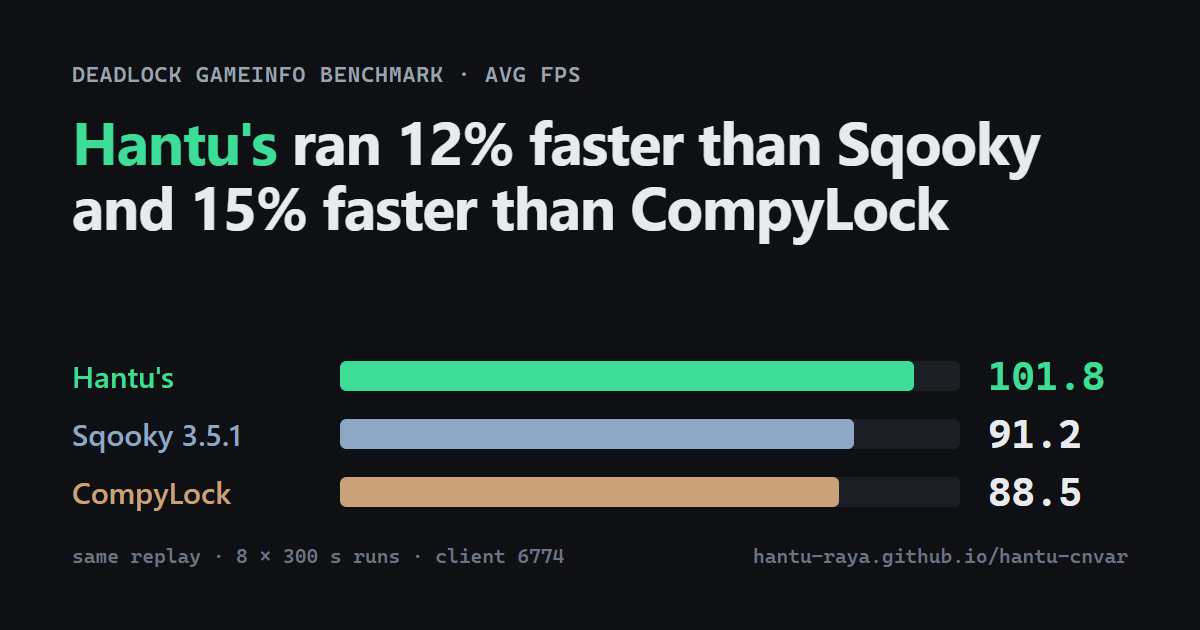
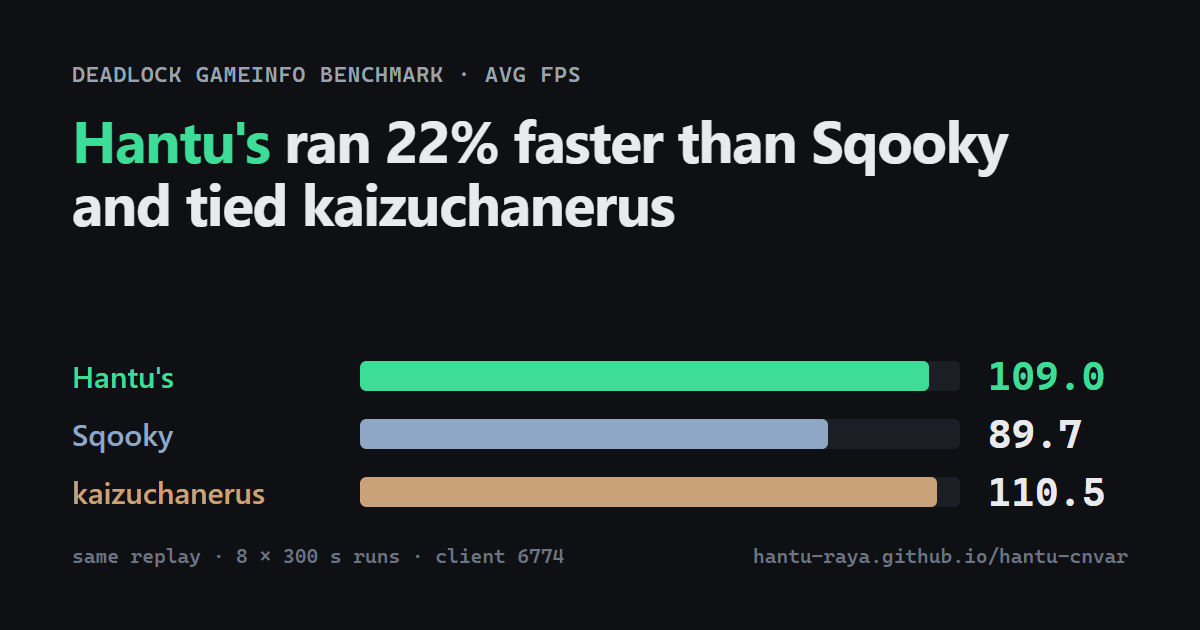
r6 (2026-10-13): Hantu's vs Sqooky f6fdab7 vs kaizuchanerus min spec; drop CompyLock; add findings (Sqooky engine settings -9%, mesh pools +1.7%)

diff --git a/index.html b/index.html
@@ -3,16 +3,16 @@
 <head>
 <meta charset="utf-8">
 <meta name="viewport" content="width=device-width,initial-scale=1">
-<title>Hantu&#x27;s gameinfo vs Sqooky vs CompyLock: Deadlock FPS benchmark</title>
-<meta name="description" content="Hantu&#x27;s averaged 101.8 FPS, 11.7% more than Sqooky 3.5.1 and 15.1% more than CompyLock, on the same recorded match.">
-<meta property="og:title" content="Hantu&#x27;s gameinfo vs Sqooky vs CompyLock: Deadlock FPS benchmark">
-<meta property="og:description" content="Hantu&#x27;s averaged 101.8 FPS, 11.7% more than Sqooky 3.5.1 and 15.1% more than CompyLock, on the same recorded match.">
+<title>Hantu&#x27;s gameinfo vs Sqooky vs kaizuchanerus: Deadlock FPS benchmark</title>
+<meta name="description" content="Hantu&#x27;s ran 22% faster than Sqooky (109.3 vs 89.7 FPS) and tied kaizuchanerus&#x27; minimum spec (108.8 vs 110.5), on the same recorded match.">
+<meta property="og:title" content="Hantu&#x27;s gameinfo vs Sqooky vs kaizuchanerus: Deadlock FPS benchmark">
+<meta property="og:description" content="Hantu&#x27;s ran 22% faster than Sqooky (109.3 vs 89.7 FPS) and tied kaizuchanerus&#x27; minimum spec (108.8 vs 110.5), on the same recorded match.">
 <meta property="og:type" content="article">
 <meta property="og:url" content="https://hantu-raya.github.io/hantu-cnvar/">
 <meta property="og:image" content="https://hantu-raya.github.io/hantu-cnvar/og.png">
 <meta property="og:image:width" content="1200">
 <meta property="og:image:height" content="630">
-<meta property="og:image:alt" content="Average FPS: Hantu&#x27;s 101.8, Sqooky 3.5.1 91.2, CompyLock 88.5. Deadlock gameinfo benchmark, client 6774.">
+<meta property="og:image:alt" content="Average FPS: Hantu&#x27;s 109.0, Sqooky 89.7, kaizuchanerus 110.5. Deadlock gameinfo benchmark, client 6774.">
 <meta name="twitter:card" content="summary_large_image">
 <meta name="twitter:image" content="https://hantu-raya.github.io/hantu-cnvar/og.png">
 <link rel="icon" href="data:,">
@@ -34,7 +34,7 @@ body{margin:0;background:var(--bg);color:var(--fg);font:16px/1.6 var(--sans);-we
 main{max-width:880px;margin:0 auto;padding:56px 24px 80px}
 a{color:var(--link);text-underline-offset:2px}
 a:focus-visible,summary:focus-visible{outline:2px solid var(--link);outline-offset:3px;border-radius:2px}
-code{font:0.88em var(--mono)}
+code{font:0.88em var(--mono);overflow-wrap:anywhere}
 small{color:var(--mut)}
 .eyebrow{font:500 13px/1.4 var(--mono);color:var(--mut);letter-spacing:.02em;margin:0 0 20px}
 h1{font-size:clamp(28px,4.6vw,42px);line-height:1.15;letter-spacing:-.02em;font-weight:650;margin:0 0 18px;max-width:28ch}
@@ -43,6 +43,7 @@ h1 em{font-style:normal;color:var(--a)}
 .update{margin:22px 0 0;padding:12px 18px;max-width:62ch;background:var(--panel);border:1px solid var(--line);border-left:3px solid var(--a);border-radius:0 10px 10px 0;font-size:15px}
 .update b{color:var(--fg)}
 h2{font-size:13px;font-weight:600;letter-spacing:.08em;text-transform:uppercase;color:var(--mut);margin:64px 0 6px}
+h3{font-size:18px;margin:40px 0 6px}
 .sub{margin:0 0 20px;color:var(--mut);max-width:64ch}
 section>p{max-width:68ch}
 
@@ -58,7 +59,9 @@ section>p{max-width:68ch}
 .dot{position:absolute;top:50%;width:12px;height:12px;margin:-6px 0 0 -6px;border-radius:50%;background:currentColor;opacity:.55}
 .mean{position:absolute;top:2px;bottom:2px;width:3px;margin-left:-1.5px;border-radius:2px;background:currentColor}
 .bar{position:absolute;top:6px;bottom:6px;border-radius:4px 0 0 4px;background:currentColor;opacity:.8}
-.pairs .track::after{content:"";position:absolute;right:0;top:-6px;bottom:-6px;border-right:1px dashed var(--faint)}
+.bar.pos{border-radius:0 4px 4px 0}
+.pairs .track::after{content:"";position:absolute;left:var(--zero);top:-6px;bottom:-6px;border-left:1px dashed var(--faint)}
+.axis .track::after{display:none}
 .tick{position:absolute;transform:translateX(-50%);font:12px var(--mono);color:var(--faint)}
 .unit{font:12px var(--mono);color:var(--faint);padding-left:10px}
 .val{font-variant-numeric:tabular-nums;line-height:1.25}
@@ -84,8 +87,7 @@ table{border-collapse:collapse;width:100%;font-size:14px}
 th,td{padding:10px 14px;text-align:left;border-bottom:1px solid var(--line);vertical-align:top}
 tr:last-child>*{border-bottom:0}
 thead th{font-size:12px;font-weight:600;letter-spacing:.04em;text-transform:uppercase;color:var(--mut);white-space:nowrap}
-tbody th{font-weight:600;white-space:nowrap}
-tbody td:first-child{white-space:nowrap}
+tbody th{font-weight:600}
 .num{text-align:right;font:13.5px var(--mono);font-variant-numeric:tabular-nums;white-space:nowrap}
 .flag{color:var(--warn)}
 .sw{display:inline-block;width:9px;height:9px;border-radius:50%;margin-right:8px;background:currentColor;vertical-align:1px}
@@ -111,61 +113,83 @@ footer{margin-top:56px;font-size:13px;color:var(--faint)}
 <body>
 <main>
 <header>
-<p class="eyebrow">Deadlock gameinfo benchmark · client 6774 · 2026-10-12</p>
-<h1><em>Hantu's</em> gameinfo ran 12% faster than Sqooky and 15% faster than CompyLock.</h1>
-<p class="lede">101.8 FPS against 91.2 and 88.5, on the same recorded match with the game restarted for every run.
-All four Hantu's runs beat all four of the others.</p>
-<p class="update"><b>Update:</b> a follow-up found three settings in Hantu's own config that were costing about 8%.
-With them fixed it averaged <b>110.0 FPS</b> on the same replay. <a href="#h-update">See the fix</a></p>
+<p class="eyebrow">Deadlock gameinfo benchmark · client 6774 · 2026-10-13</p>
+<h1><em>Hantu's</em> gameinfo ran 22% faster than Sqooky and tied kaizuchanerus' minimum spec.</h1>
+<p class="lede">Hantu's averaged 109.3 FPS to Sqooky's 89.7, and 108.8 to kaizuchanerus' 110.5, on the same recorded match with the game restarted for every run.
+kaizuchanerus keeps up by drawing less: it hides small objects such as breakables and golden statues and cuts the draw distance.</p>
+<p class="update"><b>New:</b> two settings in Sqooky's config cost it 9%, and a mesh-buffer setting added 1.7% to Hantu's.
+<a href="#h-found">See what was found</a></p>
 </header>
 
 <section aria-labelledby="h-fps">
 <h2 id="h-fps">Average FPS</h2>
-<p class="sub">Each dot is one 300-second run; the solid tick is the average. Higher is better.</p>
-<div class="plot" role="img" aria-label="Average FPS: Hantu's 101.8; Sqooky 3.5.1 91.2; CompyLock 88.5"><div class="row t-a"><div class="name">Hantu&#x27;s</div><div class="track"><span class="range" style="left:68.79%;width:calc(77.81% - 68.79%)"></span><span class="dot" style="left:72.22%" title="101.7 FPS"></span><span class="dot" style="left:72.47%" title="101.7 FPS"></span><span class="dot" style="left:77.81%" title="103.3 FPS"></span><span class="dot" style="left:68.79%" title="100.6 FPS"></span><span class="mean" style="left:72.82%"></span></div><div class="val"><b>101.8</b><small>fastest</small></div></div><div class="row t-b"><div class="name">Sqooky 3.5.1</div><div class="track"><span class="range" style="left:27.91%;width:calc(46.73% - 27.91%)"></span><span class="dot" style="left:46.73%" title="94.0 FPS"></span><span class="dot" style="left:27.91%" title="88.4 FPS"></span><span class="mean" style="left:37.32%"></span></div><div class="val"><b>91.2</b><small>Hantu's +11.7%</small></div></div><div class="row t-c"><div class="name">CompyLock</div><div class="track"><span class="range" style="left:18.08%;width:calc(38.54% - 18.08%)"></span><span class="dot" style="left:18.08%" title="85.4 FPS"></span><span class="dot" style="left:38.54%" title="91.6 FPS"></span><span class="mean" style="left:28.31%"></span></div><div class="val"><b>88.5</b><small>Hantu's +15.1%</small></div></div><div class="row axis" aria-hidden="true"><div></div><div class="track"><span class="tick" style="left:0.00%">80</span><span class="tick" style="left:16.67%">85</span><span class="tick" style="left:33.33%">90</span><span class="tick" style="left:50.00%">95</span><span class="tick" style="left:66.67%">100</span><span class="tick" style="left:83.33%">105</span><span class="tick" style="left:100.00%">110</span></div><div class="unit">FPS</div></div></div>
+<p class="sub">Each dot is one 300-second run; the solid tick is the average. Higher is better. Hantu's has four runs, two from each set.</p>
+<div class="plot" role="img" aria-label="Average FPS: Hantu's 109.0; Sqooky 89.7; kaizuchanerus 110.5"><div class="row t-a"><div class="name">Hantu&#x27;s</div><div class="track"><span class="range" style="left:79.28%;width:calc(87.94% - 79.28%)"></span><span class="dot" style="left:79.28%" title="107.7 FPS"></span><span class="dot" style="left:87.94%" title="110.8 FPS"></span><span class="dot" style="left:83.24%" title="109.1 FPS"></span><span class="dot" style="left:81.24%" title="108.4 FPS"></span><span class="mean" style="left:82.92%"></span></div><div class="val"><b>109.0</b><small>4 runs, 2 sets</small></div></div><div class="row t-b"><div class="name">Sqooky</div><div class="track"><span class="range" style="left:18.26%;width:calc(37.23% - 18.26%)"></span><span class="dot" style="left:37.23%" title="93.0 FPS"></span><span class="dot" style="left:18.26%" title="86.4 FPS"></span><span class="mean" style="left:27.74%"></span></div><div class="val"><b>89.7</b><small>Hantu's +21.8%</small></div></div><div class="row t-c"><div class="name">kaizuchanerus</div><div class="track"><span class="range" style="left:86.38%;width:calc(88.10% - 86.38%)"></span><span class="dot" style="left:86.38%" title="110.2 FPS"></span><span class="dot" style="left:88.10%" title="110.8 FPS"></span><span class="mean" style="left:87.24%"></span></div><div class="val"><b>110.5</b><small>1.6% above Hantu's</small></div></div><div class="row axis" aria-hidden="true"><div></div><div class="track"><span class="tick" style="left:0.00%">80</span><span class="tick" style="left:14.29%">85</span><span class="tick" style="left:28.57%">90</span><span class="tick" style="left:42.86%">95</span><span class="tick" style="left:57.14%">100</span><span class="tick" style="left:71.43%">105</span><span class="tick" style="left:85.71%">110</span><span class="tick" style="left:100.00%">115</span></div><div class="unit">FPS</div></div></div>
 <p class="legend"><i class="ld"></i>one run <i class="lm"></i>average</p>
 </section>
 
 <section aria-labelledby="h-pairs">
 <h2 id="h-pairs">Back-to-back pairs</h2>
-<p class="sub">Each competitor run was paired with the Hantu's run next to it, which cancels slow drift such as heat or background load.
-Bars show how many FPS the competitor lost in that pair.</p>
-<div class="plot pairs" role="img" aria-label="Their FPS minus Hantu's in each back-to-back pair: Sqooky 3.5.1 pair 1 -7.6; Sqooky 3.5.1 pair 2 -13.4; CompyLock pair 1 -17.9; CompyLock pair 2 -9.1"><div class="row t-b"><div class="name">vs Sqooky 3.5.1 <small>pair 1</small></div><div class="track"><span class="bar" style="left:61.78%;right:0"></span></div><div class="val"><b>-7.6</b><small>94.0 vs 101.7</small></div></div><div class="row t-b"><div class="name">vs Sqooky 3.5.1 <small>pair 2</small></div><div class="track"><span class="bar" style="left:33.17%;right:0"></span></div><div class="val"><b>-13.4</b><small>88.4 vs 101.7</small></div></div><div class="row t-c"><div class="name">vs CompyLock <small>pair 1</small></div><div class="track"><span class="bar" style="left:10.40%;right:0"></span></div><div class="val"><b>-17.9</b><small>85.4 vs 103.3</small></div></div><div class="row t-c"><div class="name">vs CompyLock <small>pair 2</small></div><div class="track"><span class="bar" style="left:54.63%;right:0"></span></div><div class="val"><b>-9.1</b><small>91.6 vs 100.6</small></div></div><div class="row axis" aria-hidden="true"><div></div><div class="track"><span class="tick" style="left:0.00%">-20</span><span class="tick" style="left:25.00%">-15</span><span class="tick" style="left:50.00%">-10</span><span class="tick" style="left:75.00%">-5</span><span class="tick" style="left:100.00%">0</span></div><div class="unit">FPS</div></div></div>
+<p class="sub">Each run of a public config was paired with the Hantu's run next to it, which cancels slow drift such as heat or background load.
+Bars show how many FPS the public config gained or lost in that pair.</p>
+<div class="plot pairs" role="img" aria-label="Their FPS minus Hantu's in each back-to-back pair: Sqooky pair 1 -14.7; Sqooky pair 2 -24.4; kaizuchanerus pair 1 +1.1; kaizuchanerus pair 2 +2.4" style="--zero:83.33%"><div class="row t-b"><div class="name">vs Sqooky <small>pair 1</small></div><div class="track"><span class="bar" style="left:34.28%;width:calc(83.33% - 34.28%)"></span></div><div class="val"><b>-14.7</b><small>93.0 vs 107.7</small></div></div><div class="row t-b"><div class="name">vs Sqooky <small>pair 2</small></div><div class="track"><span class="bar" style="left:2.03%;width:calc(83.33% - 2.03%)"></span></div><div class="val"><b>-24.4</b><small>86.4 vs 110.8</small></div></div><div class="row t-c"><div class="name">vs kaizuchanerus <small>pair 1</small></div><div class="track"><span class="bar pos" style="left:83.33%;width:calc(87.00% - 83.33%)"></span></div><div class="val"><b>+1.1</b><small>110.2 vs 109.1</small></div></div><div class="row t-c"><div class="name">vs kaizuchanerus <small>pair 2</small></div><div class="track"><span class="bar pos" style="left:83.33%;width:calc(91.34% - 83.33%)"></span></div><div class="val"><b>+2.4</b><small>110.8 vs 108.4</small></div></div><div class="row axis" aria-hidden="true"><div></div><div class="track"><span class="tick" style="left:0.00%">-25</span><span class="tick" style="left:16.67%">-20</span><span class="tick" style="left:33.33%">-15</span><span class="tick" style="left:50.00%">-10</span><span class="tick" style="left:66.67%">-5</span><span class="tick" style="left:83.33%">0</span><span class="tick" style="left:100.00%">+5</span></div><div class="unit">FPS</div></div></div>
+<p class="legend">Both Sqooky pairs lost by a wide margin. The kaizuchanerus pairs are within the run-to-run noise of about 3%, so they count as a tie.</p>
 </section>
 
-<section aria-labelledby="h-update">
-<h2 id="h-update">Update: fixing Hantu's config</h2>
-<p class="sub">Taking groups of settings out one at a time found three that turned off parts of the game's own parallel processing.
-Putting them back to stock raised Hantu's from 101.8 to 110.0 FPS, and every fixed run beat every old one.</p>
-<div class="plot" role="img" aria-label="Hantu's FPS before fix 101.8, after fix 110.0"><div class="row t-b"><div class="name">Before fix</div><div class="track"><span class="range" style="left:28.02%;width:calc(40.03% - 28.02%)"></span><span class="dot" style="left:28.02%" title="100.6 FPS"></span><span class="dot" style="left:40.03%" title="103.0 FPS"></span><span class="mean" style="left:34.03%"></span></div><div class="val"><b>101.8</b><small>original</small></div></div><div class="row t-a"><div class="name">After fix</div><div class="track"><span class="range" style="left:74.77%;width:calc(75.45% - 74.77%)"></span><span class="dot" style="left:75.45%" title="110.1 FPS"></span><span class="dot" style="left:74.77%" title="110.0 FPS"></span><span class="mean" style="left:75.11%"></span></div><div class="val"><b>110.0</b><small>+8.1%</small></div></div><div class="row axis" aria-hidden="true"><div></div><div class="track"><span class="tick" style="left:0.00%">95</span><span class="tick" style="left:25.00%">100</span><span class="tick" style="left:50.00%">105</span><span class="tick" style="left:75.00%">110</span><span class="tick" style="left:100.00%">115</span></div><div class="unit">FPS</div></div></div>
-<p class="sub" style="margin-top:28px">Each setting was then switched back to its old value on its own to measure its share. Together they cost about 8.4%, close to the combined gain.</p>
+<section aria-labelledby="h-found">
+<h2 id="h-found">What was found</h2>
+<h3>Two Sqooky settings cost it 9%</h3>
+<p class="sub">Sqooky sets <code>engine_accurate_input_processing_delta_time true</code> and <code>engine_max_ticks_to_simulate 2</code>
+(plus <code>engine_low_latency_sleep_after_client_tick false</code>, which is already the default). Removing them raised Sqooky from 91.3 to 99.6 FPS,
+and every run without them beat every run with them. With them on, the game's profiler also counts about two frames for every real one.</p>
+<div class="plot" role="img" aria-label="Sqooky FPS as published 91.3, without the two settings 99.6"><div class="row t-b"><div class="name">As published</div><div class="track"><span class="range" style="left:19.67%;width:calc(43.57% - 19.67%)"></span><span class="dot" style="left:43.57%" title="93.7 FPS"></span><span class="dot" style="left:19.67%" title="88.9 FPS"></span><span class="mean" style="left:31.62%"></span></div><div class="val"><b>91.3</b><small>two settings on</small></div></div><div class="row t-a"><div class="name">Without them</div><div class="track"><span class="range" style="left:72.02%;width:calc(74.35% - 72.02%)"></span><span class="dot" style="left:72.02%" title="99.4 FPS"></span><span class="dot" style="left:74.35%" title="99.9 FPS"></span><span class="mean" style="left:73.18%"></span></div><div class="val"><b>99.6</b><small>+9.1%</small></div></div><div class="row axis" aria-hidden="true"><div></div><div class="track"><span class="tick" style="left:0.00%">85</span><span class="tick" style="left:25.00%">90</span><span class="tick" style="left:50.00%">95</span><span class="tick" style="left:75.00%">100</span><span class="tick" style="left:100.00%">105</span></div><div class="unit">FPS</div></div></div>
+<p class="legend">Even without them Sqooky stayed about 9% behind Hantu's average. Removing its particle buffer, vertex-cache and batching sizes did not close the gap.</p>
+
+<h3>Lines the game ignores</h3>
+<p class="sub">Both public configs set things the game never applies. They cost nothing, but they do not do what their comments say.</p>
+<ul class="limits">
+<li><b>Locked ConVars.</b> The game ignores <code>gameinfo.gi</code> lines for ConVars flagged <code>gameinfo_cannot_override</code>. Sqooky has 17, including
+<code>lb_enable_lights</code> and <code>lb_enable_dynamic_lights</code>. kaizuchanerus has 34, including <code>r_shadows</code>, <code>r_directlighting</code> and <code>lb_enable_sunlight</code>.</li>
+<li><b>Names that don't exist.</b> Sqooky sets 40 ConVars that client 6774 does not register, such as <code>mat_async_shader_load</code> and <code>panorama_max_fps</code>; kaizuchanerus sets 27.</li>
+<li><b>Keys no DLL reads.</b> Sqooky's <code>WorldRenderer/Aggregate*</code>, <code>EnvironmentMapCacheSize</code>, <code>RenderSystem/GraphicsPipelineLibrary</code>,
+<code>SceneSystem/EnableSunlight</code>, <code>ShadowDepthBuffer</code> and <code>Particles/EnableMixedResolution</code> are never read as settings: the names appear only as internal resource labels, or nowhere in the game's DLLs.</li>
+<li><b>One adds latency.</b> Sqooky's <code>snd_mixahead 0.05</code> buffers 50 ms of audio; the default is 1 ms.</li>
+</ul>
+
+<h3>Mesh buffer pools: +1.7% for Hantu's</h3>
+<p class="sub">Hantu's gameinfo already reserved index and vertex buffer pools, but the game's mesh code only uses them when two
+<code>MeshSystem</code> flags are on, and they are off by default. Turning on <code>UseIndexBufferPool</code> and <code>UseVertexBufferPool</code> cut vertex buffers
+from about 5,670 to about 440 and used about 760 MB more video memory. All four back-to-back pairs favoured it (+3.6, +1.5, +0.5, +1.9 FPS).
+It is in the installed config now; the head-to-head runs above were made just before it was added.</p>
+
+<h3>Tried, no gain</h3>
 <div class="table-wrap"><table>
-<thead><tr><th scope="col">Setting</th><th scope="col" class="num">Cost</th><th scope="col" class="num">Was</th><th scope="col" class="num">Now</th><th scope="col" class="num">FPS fixed</th><th scope="col" class="num">FPS with old value</th></tr></thead>
-<tbody><tr><th scope="row"><code>iv_parallel_restore</code></th><td class="num flag">-3.3%</td><td class="num">0</td><td class="num">1</td><td class="num">109.5</td><td class="num">105.9</td></tr><tr><th scope="row"><code>animgraph_parallel_postdataupdate</code></th><td class="num flag">-2.8%</td><td class="num">false</td><td class="num">true (default)</td><td class="num">110.8</td><td class="num">107.7</td></tr><tr><th scope="row"><code>cl_interp_parallel</code></th><td class="num flag">-2.4%</td><td class="num">0</td><td class="num">1</td><td class="num">109.6</td><td class="num">107.0</td></tr></tbody></table></div>
-<p class="legend">The fixed config was not re-run against Sqooky and CompyLock; the head-to-head numbers above are from the original runs. Each per-setting cost is a single pair of 300-second runs.
-A later draw-distance change in Hantu's install (props 600, fade 100) has not been benchmarked.</p>
+<thead><tr><th scope="col">Change to Hantu's</th><th scope="col" class="num">Change</th><th scope="col" class="num">FPS before</th><th scope="col" class="num">FPS after</th></tr></thead>
+<tbody><tr><th scope="row"><code>r_frame_sync_enable 0</code> (from kaizuchanerus)</th><td class="num">-0.3%</td><td class="num">111.4</td><td class="num">111.1</td></tr><tr><th scope="row"><code>engine_low_latency_sleep_after_client_tick 1</code> (from kaizuchanerus)</th><td class="num">+0.1%</td><td class="num">110.8</td><td class="num">111.0</td></tr><tr><th scope="row">Light-cookie allocation back to default (8 / 16)</th><td class="num">-0.4%</td><td class="num">111.5</td><td class="num">111.0</td></tr><tr><th scope="row"><code>SceneSystem/GpuLightBinner 0</code> (gameinfo only, no cfg)</th><td class="num">+1.0%</td><td class="num">104.5</td><td class="num">105.6</td></tr></tbody></table></div>
+<p class="legend">Each row is one set of four 300-second runs; differences under about 3% are noise.</p>
 </section>
 
 <section aria-labelledby="h-catch">
 <h2 id="h-catch">Before you switch</h2>
 <div class="caveat">
 <h3>The configs do not look the same</h3>
-<p>Hantu's turns off direct lighting, the skybox, fog and decals and caps textures at 128. Part of its lead comes from drawing less, so compare the visuals as well as the numbers.</p>
+<p>Hantu's turns off direct lighting, the skybox, fog and decals and caps textures at 128. kaizuchanerus sets <code>r_size_cull_threshold 1.6</code>, which hides
+breakables and golden statues at range, and a 4,500-unit draw distance. Part of each lead comes from drawing less, so compare the visuals as well as the numbers.</p>
 </div>
 <ul class="limits">
-<li>Hantu's was tested with its <code>perf_r3.cfg</code>. The other two were tested with their <code>gameinfo.gi</code> only; Sqooky's addon pak and <code>base_convars.txt</code> and CompyLock's VPKs and <code>video.txt</code> were not installed.</li>
-<li>Two pairs per competitor is a small sample. The direction held in every pair, but the 95% confidence interval on each difference still includes zero.</li>
-<li>Sqooky and CompyLock overlap (85.4–94.0 FPS) and cannot be ranked against each other.</li>
-<li>The scene is a CPU-bound spectator replay. Live matches add server and input work.</li>
+<li>Hantu's was tested with its <code>perf_r3.cfg</code>. Some of its lines only apply with a cvar-unhide DLL in <code>citadel/addons</code>. The gameinfo alone ran at 104.5 FPS in the same test setup.</li>
+<li>The public configs were tested with their <code>gameinfo.gi</code> only. Lines the game ignores (locked ConVars) were left out, which changes nothing. Sqooky's addon pak and <code>base_convars.txt</code> were not installed.</li>
+<li>Two pairs per public config is a small sample. A 3% difference is about the smallest this design can resolve.</li>
+<li>The scene is a CPU-bound spectator replay. Live matches add server and input work. FPS says nothing about input latency.</li>
 </ul>
 </section>
 
 <section aria-labelledby="h-configs">
 <h2 id="h-configs">What was tested</h2>
-<p class="sub">Both public configs were checked against their latest <code>main</code> commit on the day of the run.</p>
+<p class="sub">Both public configs were checked against the latest <code>main</code> commit on the day of the run. CompyLock, compared in the previous round, is no longer tracked.</p>
 <div class="table-wrap"><table>
 <thead><tr><th scope="col">Config</th><th scope="col">Source</th><th scope="col" class="num">Avg FPS</th><th scope="col" class="num">Range</th><th scope="col" class="num">CPU cores</th></tr></thead>
-<tbody><tr><th scope="row"><span class="sw t-a"></span>Hantu&#x27;s</th><td>Installed <code>gameinfo.gi</code> + <code>perf_r3.cfg</code><br><small>md5 c9281b77</small></td><td class="num">101.8</td><td class="num">100.6–103.3</td><td class="num">5.17</td></tr><tr><th scope="row"><span class="sw t-b"></span>Sqooky 3.5.1</th><td><a href="https://github.com/Sqooky/OptimizationLock/tree/7d560c50cc172f90f431a35c21823e04d4bd66d2">Sqooky/OptimizationLock</a>, "Sqooky's .gi"<br><small>main @ 7d560c5, 2026-10-11</small></td><td class="num">91.2</td><td class="num">88.4–94.0</td><td class="num">5.61</td></tr><tr><th scope="row"><span class="sw t-c"></span>CompyLock</th><td><a href="https://github.com/7liv/compylock/tree/e69ac8a7a7065af4d507dc2a2e488ff03f1be286">7liv/compylock</a><br><small>main @ e69ac8a, 2026-10-10</small></td><td class="num">88.5</td><td class="num">85.4–91.6</td><td class="num">5.67</td></tr></tbody></table></div>
+<tbody><tr><th scope="row"><span class="sw t-a"></span>Hantu&#x27;s</th><td>Installed <code>gameinfo.gi</code> + <code>perf_r3.cfg</code><br><small>gameinfo md5 b0dea65f, cfg md5 73201c91</small></td><td class="num">109.0</td><td class="num">107.7–110.8</td><td class="num">5.44</td></tr><tr><th scope="row"><span class="sw t-b"></span>Sqooky</th><td><a href="https://github.com/Sqooky/OptimizationLock/tree/f6fdab7f66e7c314b011a861589fa12db27c8a3e/Sqooky's%20.gi">Sqooky/OptimizationLock</a>, "Sqooky's .gi"<br><small>main @ f6fdab7, 2026-10-12</small></td><td class="num">89.7</td><td class="num">86.4–93.0</td><td class="num">5.60</td></tr><tr><th scope="row"><span class="sw t-c"></span>kaizuchanerus</th><td><a href="https://github.com/Sqooky/OptimizationLock/tree/f6fdab7f66e7c314b011a861589fa12db27c8a3e/kaizuchanerus%20minimum%20spec">Sqooky/OptimizationLock</a>, "kaizuchanerus minimum spec"<br><small>main @ f6fdab7, 2026-10-12</small></td><td class="num">110.5</td><td class="num">110.2–110.8</td><td class="num">5.48</td></tr></tbody></table></div>
 </section>
 
 <section aria-labelledby="h-detail">
@@ -174,24 +198,31 @@ A later draw-distance change in Hantu's install (props 600, fade 100) has not be
 <summary>Every run</summary>
 <div class="table-wrap"><table>
 <thead><tr><th scope="col">Set</th><th scope="col" class="num">#</th><th scope="col">Config</th><th scope="col" class="num">FPS</th><th scope="col" class="num">FrameTotal frames</th><th scope="col" class="num">Summary frames</th><th scope="col" class="num">Ratio</th><th scope="col" class="num">CPU cores</th><th scope="col" class="num">P99 ms</th></tr></thead>
-<tbody><tr><td>vs Sqooky 3.5.1</td><td class="num">1</td><th scope="row"><span class="sw t-a"></span>Hantu&#x27;s</th><td class="num">101.7</td><td class="num">30,501</td><td class="num">30,501</td><td class="num">1.00</td><td class="num">5.22</td><td class="num">15.39</td></tr><tr><td>vs Sqooky 3.5.1</td><td class="num">2</td><th scope="row"><span class="sw t-b"></span>Sqooky 3.5.1</th><td class="num">94.0</td><td class="num">28,206</td><td class="num">59,673</td><td class="num flag">2.12</td><td class="num">5.72</td><td class="num">14.17*</td></tr><tr><td>vs Sqooky 3.5.1</td><td class="num">3</td><th scope="row"><span class="sw t-b"></span>Sqooky 3.5.1</th><td class="num">88.4</td><td class="num">26,512</td><td class="num">60,328</td><td class="num flag">2.28</td><td class="num">5.51</td><td class="num">13.85*</td></tr><tr><td>vs Sqooky 3.5.1</td><td class="num">4</td><th scope="row"><span class="sw t-a"></span>Hantu&#x27;s</th><td class="num">101.7</td><td class="num">30,522</td><td class="num">30,522</td><td class="num">1.00</td><td class="num">5.26</td><td class="num">15.56</td></tr><tr><td>vs CompyLock</td><td class="num">1</td><th scope="row"><span class="sw t-a"></span>Hantu&#x27;s</th><td class="num">103.3</td><td class="num">31,003</td><td class="num">31,003</td><td class="num">1.00</td><td class="num">4.99</td><td class="num">14.62</td></tr><tr><td>vs CompyLock</td><td class="num">2</td><th scope="row"><span class="sw t-c"></span>CompyLock</th><td class="num">85.4</td><td class="num">25,627</td><td class="num">58,024</td><td class="num flag">2.26</td><td class="num">5.58</td><td class="num">14.67*</td></tr><tr><td>vs CompyLock</td><td class="num">3</td><th scope="row"><span class="sw t-c"></span>CompyLock</th><td class="num">91.6</td><td class="num">27,469</td><td class="num">58,232</td><td class="num flag">2.12</td><td class="num">5.76</td><td class="num">14.90*</td></tr><tr><td>vs CompyLock</td><td class="num">4</td><th scope="row"><span class="sw t-a"></span>Hantu&#x27;s</th><td class="num">100.6</td><td class="num">30,191</td><td class="num">30,191</td><td class="num">1.00</td><td class="num">5.23</td><td class="num">14.47</td></tr></tbody></table></div>
-<p><small>* Not comparable. Sqooky and CompyLock both set <code>engine_low_latency_sleep_after_client_tick false</code>,
-<code>engine_accurate_input_processing_delta_time true</code> and <code>engine_max_ticks_to_simulate 2</code>. With those set, the profiler's summary logs about two frames
-for every real one, which drags its frame-time percentiles down. FPS comes from the FrameTotal counter, which stayed at one per frame, so it is far less affected.</small></p>
+<tbody><tr><td>vs Sqooky</td><td class="num">1</td><th scope="row"><span class="sw t-a"></span>Hantu&#x27;s</th><td class="num">107.7</td><td class="num">32,324</td><td class="num">32,324</td><td class="num">1.00</td><td class="num">5.45</td><td class="num">14.47</td></tr><tr><td>vs Sqooky</td><td class="num">2</td><th scope="row"><span class="sw t-b"></span>Sqooky</th><td class="num">93.0</td><td class="num">27,909</td><td class="num">59,007</td><td class="num flag">2.11</td><td class="num">5.65</td><td class="num">14.28*</td></tr><tr><td>vs Sqooky</td><td class="num">3</td><th scope="row"><span class="sw t-b"></span>Sqooky</th><td class="num">86.4</td><td class="num">25,917</td><td class="num">58,209</td><td class="num flag">2.25</td><td class="num">5.56</td><td class="num">15.04*</td></tr><tr><td>vs Sqooky</td><td class="num">4</td><th scope="row"><span class="sw t-a"></span>Hantu&#x27;s</th><td class="num">110.8</td><td class="num">33,234</td><td class="num">33,234</td><td class="num">1.00</td><td class="num">5.42</td><td class="num">13.92</td></tr><tr><td>vs kaizuchanerus</td><td class="num">1</td><th scope="row"><span class="sw t-a"></span>Hantu&#x27;s</th><td class="num">109.1</td><td class="num">32,740</td><td class="num">32,740</td><td class="num">1.00</td><td class="num">5.51</td><td class="num">14.19</td></tr><tr><td>vs kaizuchanerus</td><td class="num">2</td><th scope="row"><span class="sw t-c"></span>kaizuchanerus</th><td class="num">110.2</td><td class="num">33,070</td><td class="num">33,070</td><td class="num">1.00</td><td class="num">5.41</td><td class="num">13.79</td></tr><tr><td>vs kaizuchanerus</td><td class="num">3</td><th scope="row"><span class="sw t-c"></span>kaizuchanerus</th><td class="num">110.8</td><td class="num">33,251</td><td class="num">33,251</td><td class="num">1.00</td><td class="num">5.55</td><td class="num">13.14</td></tr><tr><td>vs kaizuchanerus</td><td class="num">4</td><th scope="row"><span class="sw t-a"></span>Hantu&#x27;s</th><td class="num">108.4</td><td class="num">32,530</td><td class="num">32,530</td><td class="num">1.00</td><td class="num">5.37</td><td class="num">13.96</td></tr></tbody></table></div>
+<p><small>* Not comparable: with Sqooky's two engine settings the profiler's summary logs about two frames for every real one, which drags its frame-time percentiles down.
+FPS comes from the FrameTotal counter, which stayed at one per frame.</small></p>
+</details>
+<details>
+<summary>Earlier fix (2026-10-12)</summary>
+<p>The previous round found three settings in Hantu's own config that switched off parts of the game's parallel processing. Putting them back to stock raised it from
+101.8 to 110.0 FPS (+8.1%). That fix is part of the Hantu's config tested above.</p>
+<div class="table-wrap"><table>
+<thead><tr><th scope="col">Setting</th><th scope="col" class="num">Cost</th><th scope="col" class="num">Was</th><th scope="col" class="num">Now</th></tr></thead>
+<tbody><tr><th scope="row"><code>iv_parallel_restore</code></th><td class="num flag">-3.3%</td><td class="num">0</td><td class="num">1</td></tr><tr><th scope="row"><code>animgraph_parallel_postdataupdate</code></th><td class="num flag">-2.8%</td><td class="num">false</td><td class="num">true (default)</td></tr><tr><th scope="row"><code>cl_interp_parallel</code></th><td class="num flag">-2.4%</td><td class="num">0</td><td class="num">1</td></tr></tbody></table></div>
 </details>
 <details>
 <summary>How it was measured</summary>
 <ul>
 <li>Demo 110239551 from tick 138245, 300 seconds per run, 1600×900 windowed, same installed mods for every run.</li>
-<li>Two sets in ABBA order: Hantu's, Sqooky, Sqooky, Hantu's; then the same with CompyLock. Each run closed the game, installed that config's <code>gameinfo.gi</code>, relaunched and drove the replay over the developer console.</li>
-<li>For the competitor runs an empty <code>perf_r3.cfg</code> replaced Hantu's, so none of its settings applied.</li>
-<li>FPS = frames counted by the profiler's FrameTotal row ÷ wall-clock seconds. Client 6774 no longer reports a Present counter, so this is a profiler count, not an independent present measurement. CPU = process CPU time ÷ wall-clock seconds, where 1.0 is one fully busy logical core.</li>
+<li>Sets of four runs in ABBA order (one confirmation set in BAAB). Each run closed the game, installed that config's <code>gameinfo.gi</code>, relaunched and drove the replay over the developer console.</li>
+<li>For the public configs an empty <code>perf_r3.cfg</code> replaced Hantu's, so none of its settings applied.</li>
+<li>FPS = frames counted by the profiler's FrameTotal row ÷ wall-clock seconds. CPU = process CPU time ÷ wall-clock seconds, where 1.0 is one fully busy logical core.</li>
 <li>The original <code>gameinfo.gi</code> and <code>perf_r3.cfg</code> were restored and checksum-verified after each set.</li>
 </ul>
 </details>
 </section>
 
-<footer>Raw data: <code>runs-20261012_135232_597622</code> and <code>runs-20261012_141613_574256</code>.</footer>
+<footer>Raw data: <code>runs-20261013_052355_441671</code>, <code>runs-20261013_054837_101915</code>, <code>runs-20261013_063535_858820</code>, <code>runs-20261013_061209_173442</code>, <code>runs-20261013_081450_652770</code>.</footer>
 </main>
 </body>
 </html>
